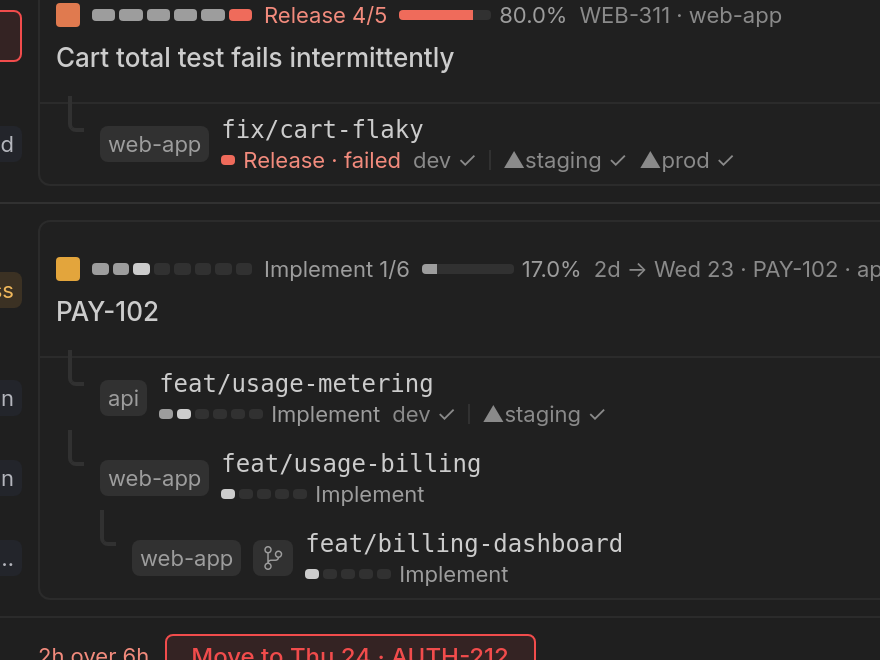
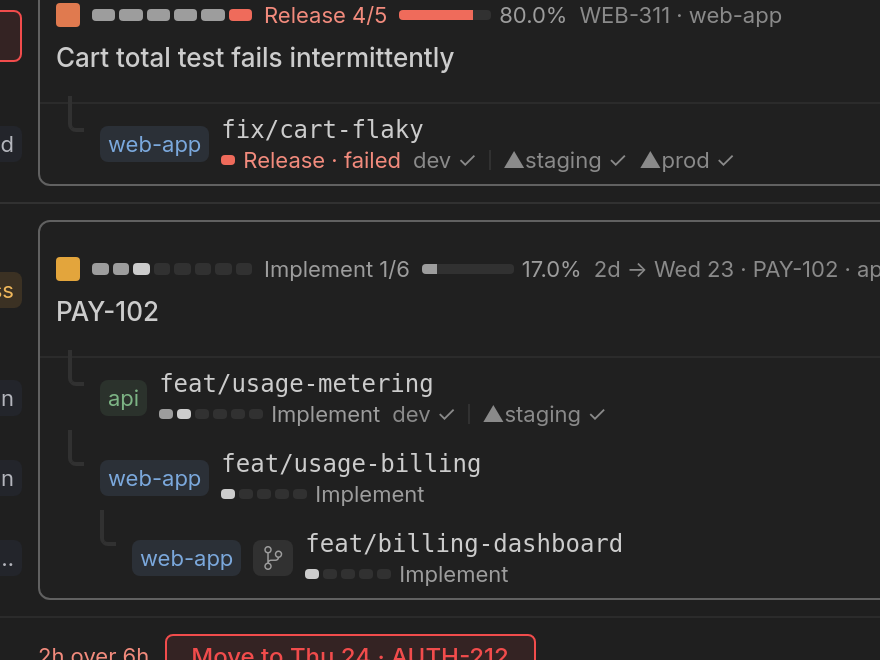
feat(ade): stronger neutral task card border, repo-coloured branch badge
Claude-Session: https://claude.ai/code/session_0182s6u9UnKNn5crT1EH5UTp

diff --git a/apps/kira-space/tests/ui/ade-v2-plan.spec.ts b/apps/kira-space/tests/ui/ade-v2-plan.spec.ts
@@ -262,14 +262,16 @@ test('the task open in the panel is marked on its card, spans and branch rows', 
 }) => {
   const { window: page } = await openPlan(relaunch);
   const marked = page.locator('[data-testid="ade-card"][aria-current="true"]');
-  const focusColor = await page.evaluate(() => {
-    const span = document.createElement('span');
-    span.style.color = 'var(--kira-focus)';
-    document.body.appendChild(span);
-    const color = getComputedStyle(span).color;
-    span.remove();
-    return color;
-  });
+  const [focusColor, badgeColor] = await page.evaluate(() =>
+    ['--kira-focus', '--kira-badge'].map((v) => {
+      const span = document.createElement('span');
+      span.style.color = `var(${v})`;
+      document.body.appendChild(span);
+      const color = getComputedStyle(span).color;
+      span.remove();
+      return color;
+    }),
+  );
 
   await card(page, 'T_search').locator('[data-testid="ade-card-head"]').click();
   await expect(card(page, 'T_search')).toHaveAttribute('aria-current', 'true');
@@ -280,6 +282,9 @@ test('the task open in the panel is marked on its card, spans and branch rows', 
 
   await card(page, 'T_push').locator('[data-testid="ade-card-head"]').click();
   await expect(card(page, 'T_push')).toHaveAttribute('aria-current', 'true');
+  expect(await card(page, 'T_search').evaluate((el) => getComputedStyle(el).borderTopColor)).toBe(
+    badgeColor,
+  );
   await expect(card(page, 'T_search')).not.toHaveAttribute('aria-current', 'true');
 
   const row = card(page, 'T_push').locator('[data-testid="ade-branch-row"]').first();
@@ -294,14 +299,18 @@ test('the task open in the panel is marked on its card, spans and branch rows', 
   await expect(span).toHaveAttribute('data-selected', 'true');
 });
 
-test('plan cards use colour only for status and problems', async ({ relaunch }) => {
+test('plan cards use colour only for status, problems and the repo badge', async ({ relaunch }) => {
   const { window: page } = await openPlan(relaunch);
   await expect(page.locator('[data-testid="ade-card"][style*="border-left-color"]')).toHaveCount(0);
   await expect(page.locator('[data-testid="ade-action-cell"] [class*="-solid"]')).toHaveCount(0);
   await expect(card(page, 'T_search').locator('[data-testid="ade-step-label"]')).not.toHaveClass(
     /tone-amber|tone-green/,
   );
-  await expect(page.locator('[data-testid="ade-branch-repo"][style]')).toHaveCount(0);
+  const repoBadges = page.locator('[data-testid="ade-branch-repo"]');
+  await expect(repoBadges.first()).toHaveAttribute('style', /--repo: var\(--kira-conn-/);
+  await expect(page.locator('[data-testid="ade-branch-repo"]:not([style*="--repo"])')).toHaveCount(
+    0,
+  );
 });
 
 test('the Plan scrolls inside the window instead of growing it', async ({ relaunch }) => {

diff --git a/apps/kira-space/frontend/src/ade/v2/plan/AdeBranchRow.vue b/apps/kira-space/frontend/src/ade/v2/plan/AdeBranchRow.vue
@@ -11,7 +11,9 @@ import { useFocus } from '@vueuse/core';
 import { formatShortcut } from '@workbench/shortcuts/keys';
 import { useContextMenuStore } from '@workbench/state/contextMenu';
 import { computed, ref, useTemplateRef, watch } from 'vue';
+import { useRepoLinksStore } from '../../../repo/state/repoLinks';
 import { useRepos } from '../../../repo/state/reposQueries';
+import { repoTint } from '../../../state/coderepos';
 import { useRunAutomation } from '../automation/useRunAutomation';
 import { fixItems } from '../board/menu';
 import { useReviewCode } from '../review/useReviewCode';
@@ -28,6 +30,8 @@ const dialogs = useAdeDialogsStore();
 const contextMenu = useContextMenuStore();
 const { model } = usePlanModel();
 const repos = useRepos();
+const repoLinks = useRepoLinksStore();
+const repoTintOf = computed(() => repoTint(repoLinks.repoColorOf(props.row.branch.codeRepoId)));
 const reviewCode = useReviewCode();
 const automation = useRunAutomation();
 const choice = computed(() => reviewCode.choiceOf(props.row));
@@ -167,7 +171,15 @@ const baseVariant = computed(() => (props.row.base?.pending ? 'warn' : 'default'
     </span>
     <AdeBranchTip v-model:open="tipOpen" :row="row" :color="color">
       <div class="flex h-full min-w-0 flex-1 items-center gap-1.5">
-        <Badge data-testid="ade-branch-repo">{{ row.repo }}</Badge>
+        <Badge
+          variant="chip"
+          :class="repoTintOf.class"
+          :style="repoTintOf.style"
+          data-testid="ade-branch-repo"
+          >{{
+            row.repo
+          }}</Badge
+        >
         <BranchChip
           v-if="row.base"
           :name="baseName"

diff --git a/apps/kira-space/tests/ui/support/adeV2.ts b/apps/kira-space/tests/ui/support/adeV2.ts
@@ -41,23 +41,23 @@ const REPO_BRANCHES = {
   ],
 };
 
-function repoRecord(id: string, name: string, order: number) {
+function repoRecord(id: string, name: string, order: number, color: string) {
   return {
     id,
     name,
     root: `/tmp/${name}`,
     repoId: `/tmp/${name}`,
     sortOrder: order,
-    color: 'none',
+    color,
     createdAt: '2026-01-01T00:00:00.000Z',
     hidden: false,
   };
 }
 
 const REPO_RECORDS = [
-  repoRecord('repo-web-app', 'acme-customer-dashboard-web-frontend', 1),
-  repoRecord('repo-api', 'acme-platform-core-api-service', 2),
-  repoRecord('repo-mobile', 'acme-mobile-react-native-app', 3),
+  repoRecord('repo-web-app', 'acme-customer-dashboard-web-frontend', 1, 'blue'),
+  repoRecord('repo-api', 'acme-platform-core-api-service', 2, 'green'),
+  repoRecord('repo-mobile', 'acme-mobile-react-native-app', 3, 'violet'),
 ];
 
 function firstWorkflow(): unknown {

diff --git a/apps/kira-space/frontend/src/ade/v2/plan/AdeTaskCard.vue b/apps/kira-space/frontend/src/ade/v2/plan/AdeTaskCard.vue
@@ -90,7 +90,7 @@ const boxClass = computed(() => {
   return [
     c.parked ? 'bg-bg' : '',
     'cursor-grab',
-    c.selected ? 'border-focus ring-1 ring-focus' : '',
+    c.selected ? 'border-focus ring-1 ring-focus' : 'border-badge',
     c.ripple && !c.selected ? 'outline-dashed outline-1 outline-border-strong' : '',
   ];
 });

diff --git a/docs/v0.2.21/SPEC.md b/docs/v0.2.21/SPEC.md
@@ -28,7 +28,7 @@ ADE tasks view is busy and colorful; hard to focus on what is essential. Fix:
 - Add a clear visual indicator for the task open in the right panel.
 - Make the separation between tasks more visible.
 
-Result: plan `plans/P388.md`. Plan cards neutral: colour only on task status tag, red failures, amber needs-you/stale; task colour only as head dot. Task open in panel wears `border-focus ring-1` plus `aria-current`; head, branch row, span and history rows use `bg-select`. `Separator` (`ade-task-separator`) between tasks. `AdeTaskActionButton` gains `quiet`. Specs: geometry test rewritten, two new tests in `ade-v2-plan.spec.ts`. Checks: `bun run lint`, `typecheck` (pre-commit), `lint:dead` clean; `ade-` UI specs 314 pass; visual suite: only `ade-plan-branches` diffed, 4 baselines re-recorded (Inter font confirmed); screenshots re-run stable, 2 PNGs updated. `check-ui-primitives.sh` U37 exemptions added for `AdeBranchRow.vue`, `AdeDayBand.vue`. CodeGraph MCP unavailable.
+Result: plan `plans/P388.md`. Plan cards neutral: colour only on task status tag, red failures, amber needs-you/stale; task colour only as head dot. Task open in panel wears `border-focus ring-1` plus `aria-current`; head, branch row, span and history rows use `bg-select`. `Separator` (`ade-task-separator`) between tasks. `AdeTaskActionButton` gains `quiet`. Specs: geometry test rewritten, two new tests in `ade-v2-plan.spec.ts`. Checks: `bun run lint`, `typecheck` (pre-commit), `lint:dead` clean; `ade-` UI specs 314 pass; visual suite: only `ade-plan-branches` diffed, 4 baselines re-recorded (Inter font confirmed); screenshots re-run stable, 2 PNGs updated. `check-ui-primitives.sh` U37 exemptions added for `AdeBranchRow.vue`, `AdeDayBand.vue`. CodeGraph MCP unavailable. Follow-up: task card edge is `border-badge` (#616161, `border-strong` too close to `border`), open-task focus frame unchanged; branch-row repo badge wears repo colour again via `repoTint`, ADE fixture repos coloured.
 
 ### P389 ADE tightening: drop plan top bar, drop task toolbar, drop session bar
 

diff --git a/docs/ARCHITECTURE.md b/docs/ARCHITECTURE.md
@@ -2380,7 +2380,7 @@ role (`harness.UsageReporter`): only a provider that reports it feeds the servic
 - Plan drag and drop (plan/usePlanDrag.ts, board/dropPlan.ts) writes the day and position directly with no dialog.
 - ADE notes use TipTap (notes/), and the fix menu uses the shared context-menu primitive (R20).
 - ade/v2/tones.ts and palette.ts are dark-only; scripts/check-ade-colours.sh (part of bun run lint) fails any other colour literal under ade/.
-- Plan board colour: tone colour only on the task status tag, red failures and amber needs-you/stale; branch tags other than red/amber render grey; task colour only as the head dot. The task open in the panel wears a focus frame (border-focus ring-1) and aria-current; its head, branch row, span and history rows use bg-select.
+- Plan board colour: tone colour only on the task status tag, red failures and amber needs-you/stale; branch tags other than red/amber render grey; task colour only as the head dot; the branch row repo badge wears the repo colour (repoTint). Task cards have a 1px border-badge edge. The task open in the panel wears a focus frame (border-focus ring-1) and aria-current; its head, branch row, span and history rows use bg-select.
 
 ### Review code (P150)
 
